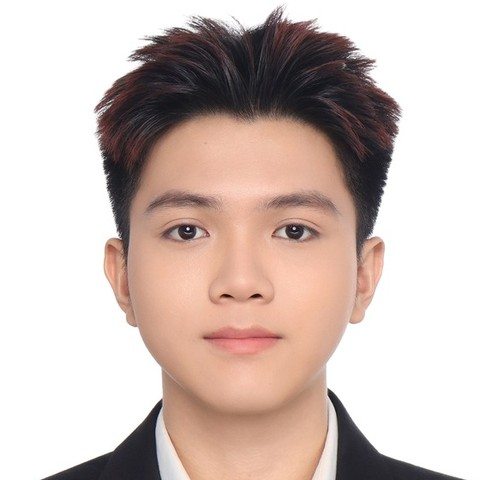
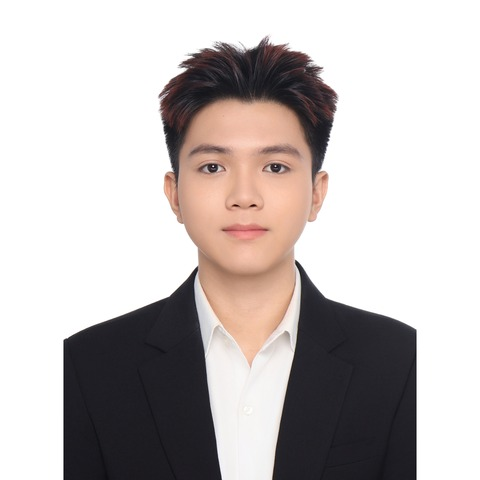
Profile photo: wider framing with shoulders

diff --git a/_sass/layout/_custom.scss b/_sass/layout/_custom.scss
@@ -85,7 +85,7 @@ html[data-theme="dark"] { --pub-link: #7cb7e3; --pub-feat-bg: #2b2a17; --pub-gol
 .hb { display: flex; gap: 2em; align-items: flex-start; margin-bottom: 0.5em; }
 .hb__text { flex: 1; min-width: 0; }
 .hb__name { text-align: center; font-size: 2em; font-weight: 400; margin: 0 0 0.4em; border: 0; }
-.hb__photo { width: 200px; height: 200px; border-radius: 50%; object-fit: cover; object-position: center 20%; flex: none; margin-top: 0.4em; }
+.hb__photo { width: 200px; height: 200px; border-radius: 50%; object-fit: cover; object-position: center; flex: none; margin-top: 0.4em; }
 .hb__links { text-align: center; margin-top: 0.8em; }
 @media (max-width: 640px) {
   .hb { flex-direction: column-reverse; align-items: center; }

diff --git a/_pages/about.md b/_pages/about.md
@@ -25,7 +25,7 @@ With my teammates I have **two co-first papers at NeurIPS 2026**, **1st place in
 
 <p class="hb__links"><a href="mailto:tcnguyen2365@gmail.com">Email</a> / <a href="{{ base_path }}/files/cv.pdf">CV</a> / <a href="https://scholar.google.com/citations?user=dyVn0zMAAAAJ&hl=en">Scholar</a> / <a href="https://github.com/chisngyen">GitHub</a> / <a href="https://www.linkedin.com/in/chi-nguyen-tran-381513331/">LinkedIn</a></p>
 </div>
-<img class="hb__photo" src="{{ base_path }}/images/profile.jpg" alt="Chi-Nguyen Tran">
+<img class="hb__photo" src="{{ base_path }}/images/profile.jpg?v=2" alt="Chi-Nguyen Tran">
 </div>
 
 <h2 class="sec-title">News</h2>
